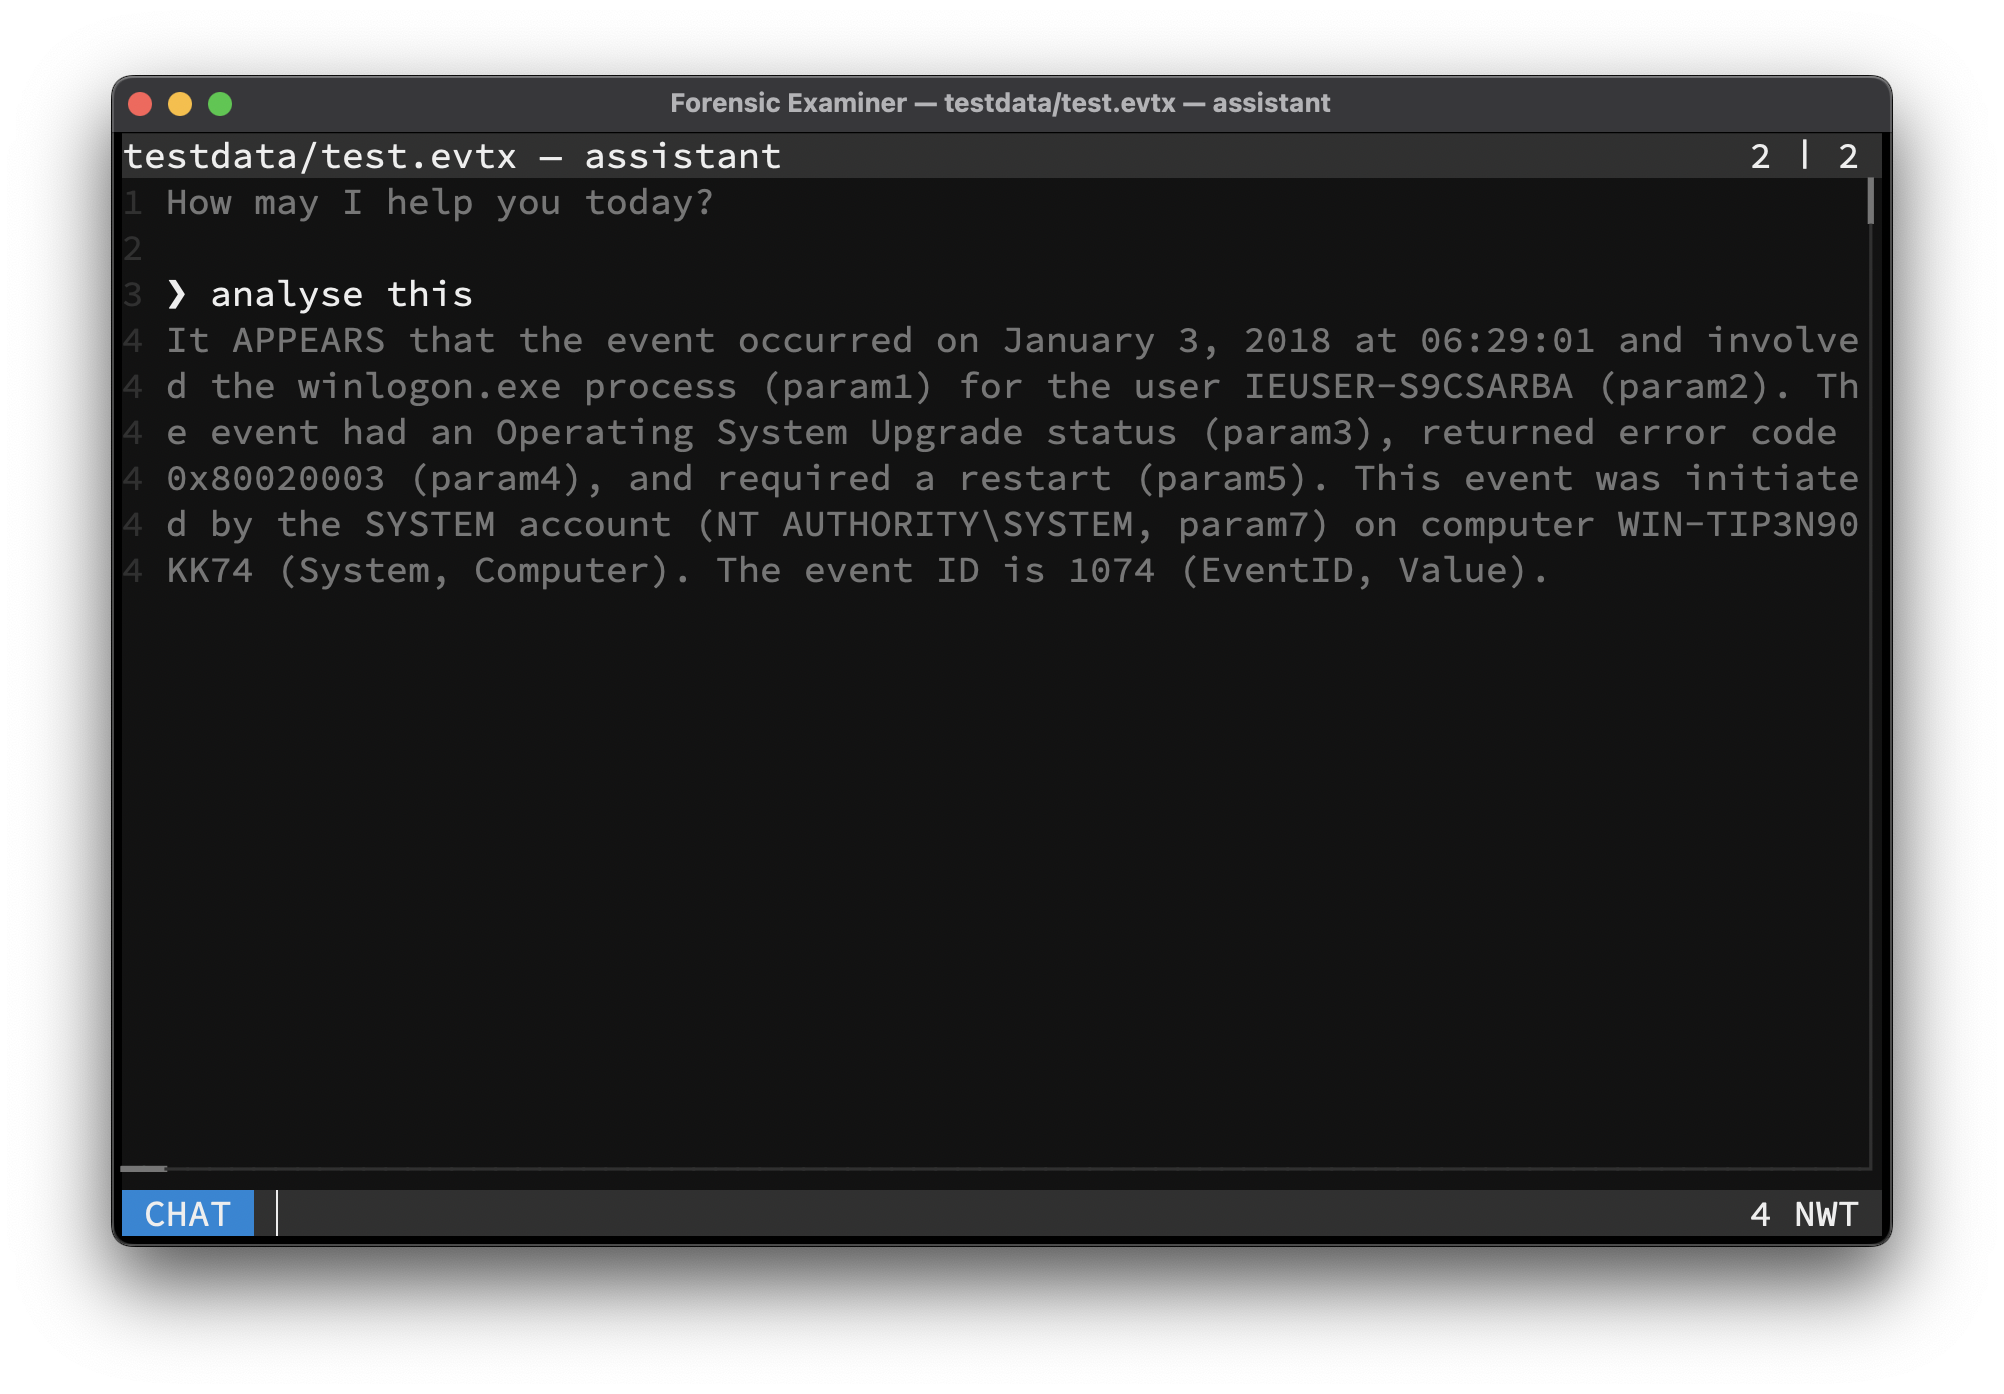
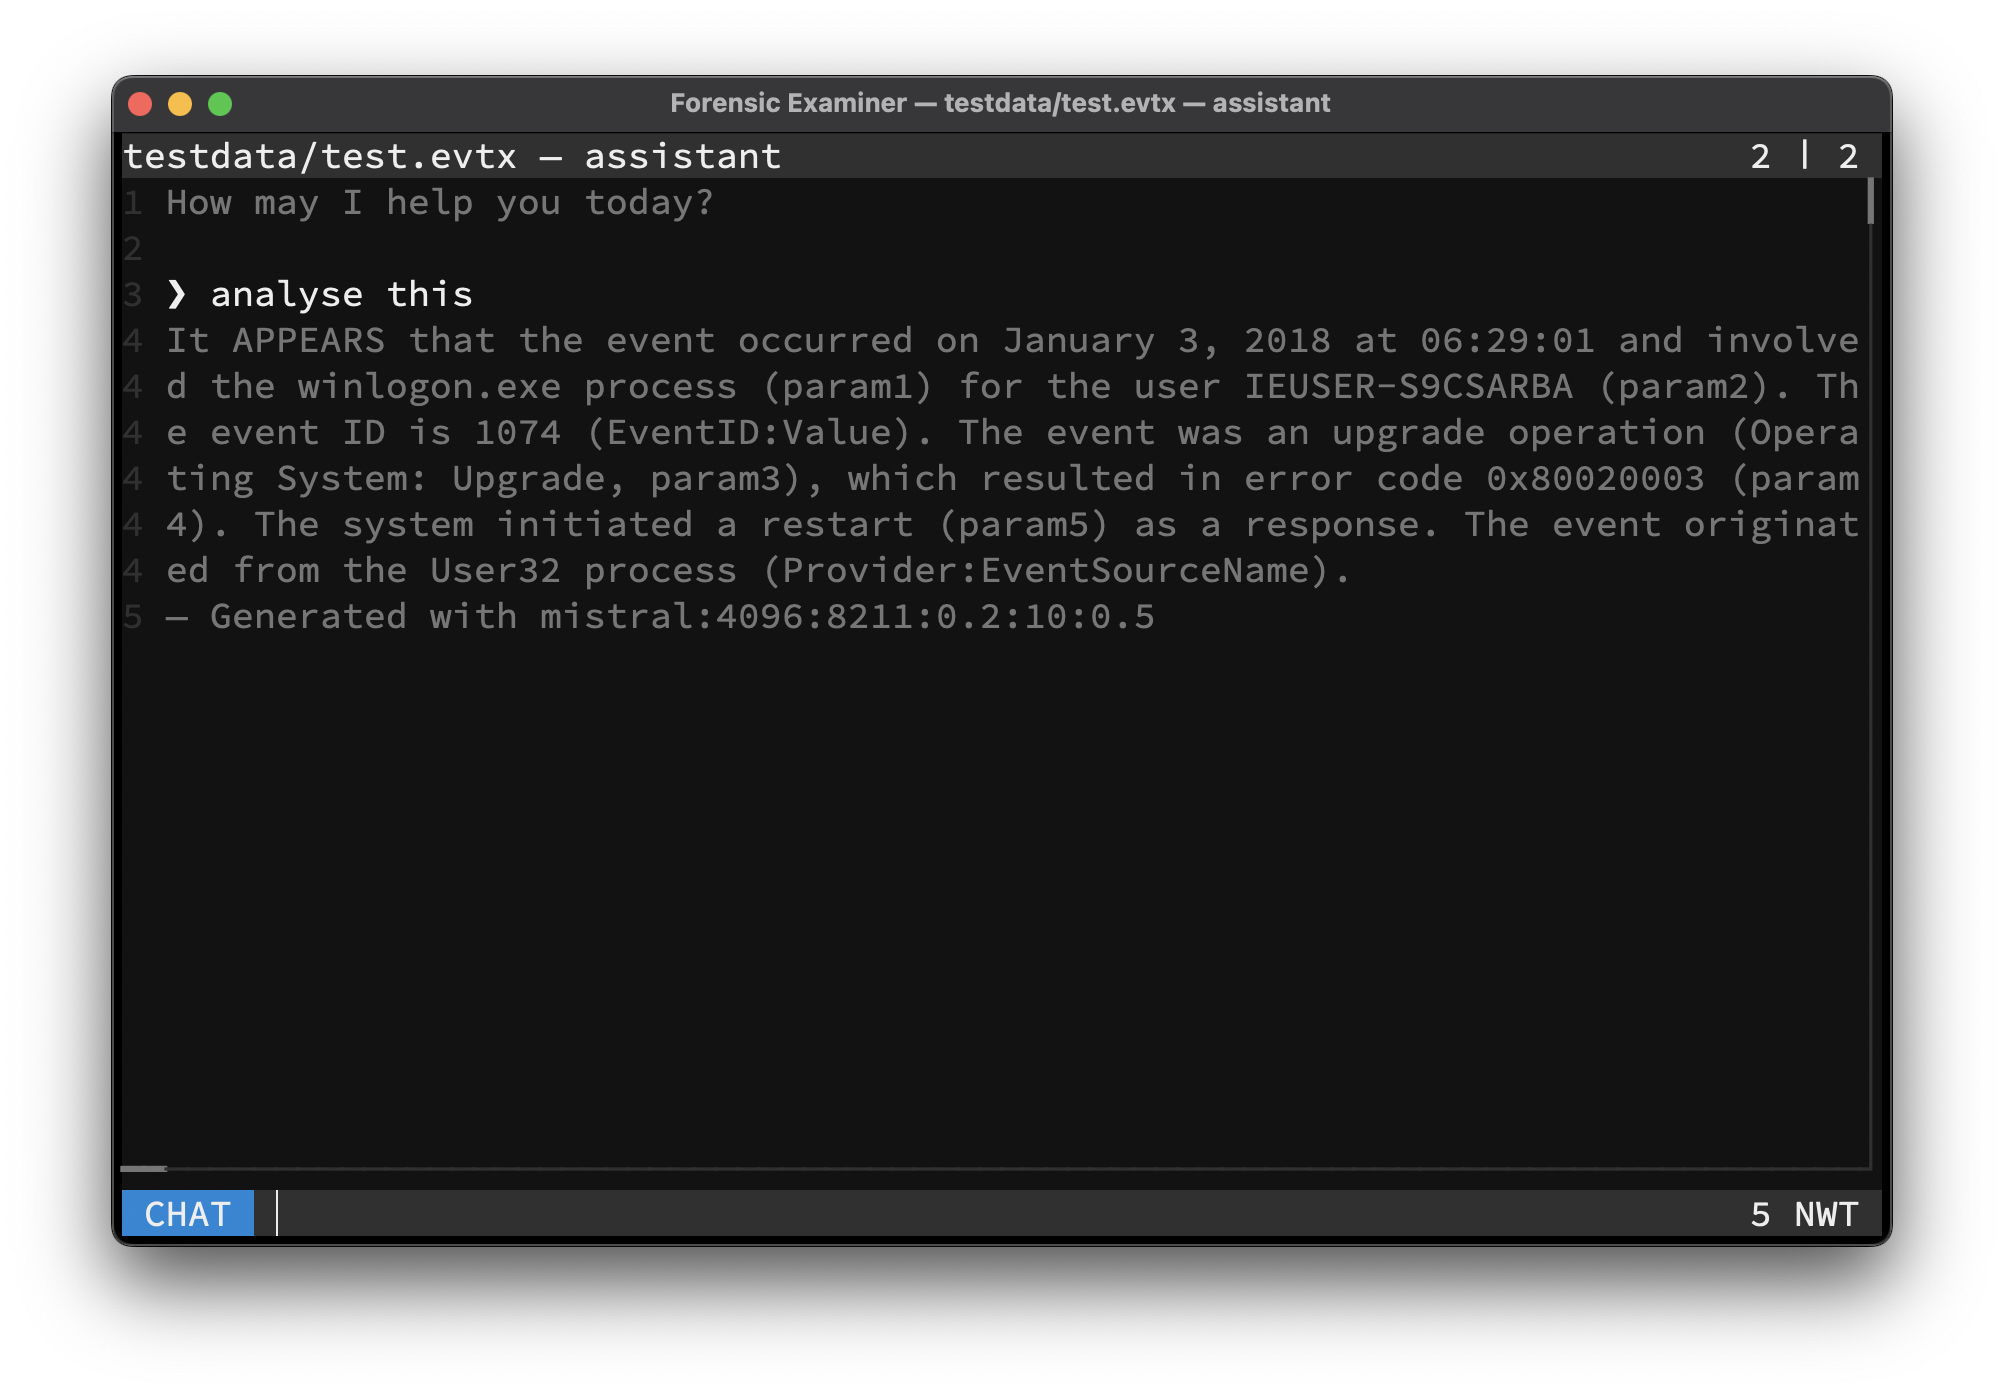
fixed several bugs

Changed region(s): [[0.0928, 0.3085, 0.9281, 0.4627]]

diff --git a/internal/cmd/fox.go b/internal/cmd/fox.go
@@ -231,7 +231,7 @@ var Fox = &cobra.Command{
 	Run: func(cmd *cobra.Command, args []string) {
 		flg := flags.Get()
 
-		if !flg.Bag && !flg.Print {
+		if !flg.Print && !flg.Bag {
 			ui.Start(args, types.None)
 		} else if len(args) == 0 {
 			fmt.Print(Usage)
@@ -339,14 +339,14 @@ func init() {
 func run(args []string) {
 	var ctx = opt.NewState(nil)
 	var flg = flags.Get()
-	var eb *bag.Bag
+	var b *bag.Bag
 
 	if len(flg.AI.Query) > 0 && !ai.Check() {
 		sys.Exit("Assistant is not available")
 	}
 
 	if flg.Bag {
-		eb = bag.New()
+		b = bag.New()
 	}
 
 	hs := heapset.New(args)
@@ -361,7 +361,7 @@ func run(args []string) {
 			}
 
 			if flg.Bag {
-				eb.Put(h)
+				b.Put(h)
 			} else if len(flg.AI.Query) > 0 {
 				c := chat.New(ctx, h)
 				defer c.Close()

diff --git a/internal/pkg/types/heap/heap.go b/internal/pkg/types/heap/heap.go
@@ -95,15 +95,17 @@ func (h *Heap) Ensure() *Heap {
 	if h.file == nil {
 		h.Reload()
 
-		filters := flags.Get().Filters
-
 		// apply global filters once
-		for _, filter := range filters.Patterns {
-			h.AddFilter(
-				filter,
-				filters.Before,
-				filters.After,
-			)
+		if h.Type != types.Chat {
+			filters := flags.Get().Filters
+
+			for _, filter := range filters.Patterns {
+				h.AddFilter(
+					filter,
+					filters.Before,
+					filters.After,
+				)
+			}
 		}
 	}
 

diff --git a/internal/opt/ai/chat/chat.go b/internal/opt/ai/chat/chat.go
@@ -172,7 +172,7 @@ func (c *Chat) source() string {
 		cfg.GetInt("ai.num_ctx"),
 		cfg.GetInt("ai.seed"),
 		cfg.GetFloat64("ai.temp"),
-		cfg.GetInt("ai.top_k"),
-		cfg.GetFloat64("ai.top_p"),
+		cfg.GetInt("ai.topk"),
+		cfg.GetFloat64("ai.topp"),
 	)
 }

diff --git a/internal/opt/ui/widgets/overlay.go b/internal/opt/ui/widgets/overlay.go
@@ -70,7 +70,3 @@ func (o *Overlay) Listen() {
 		o.state.ForceRender()
 	}
 }
-
-func (o *Overlay) Close() {
-	close(o.msgs)
-}

diff --git a/internal/opt/ui/ui.go b/internal/opt/ui/ui.go
@@ -117,7 +117,6 @@ func (ui *UI) Close() {
 		plugins.Close()
 	}
 
-	ui.overlay.Close()
 	ui.root.Fini()
 	ui.state.Save()
 

diff --git a/docs/features/ui/grep.md b/docs/features/ui/grep.md
@@ -5,8 +5,8 @@ All line-based files can be filtered with **Regular Expressions** by switching t
 
     Use <kbd>Ctrl</kbd> + <kbd>F</kbd> to switch to Grep mode while in the Terminal UI, or type any letter or number while in Less mode.
 
-## Dynamic Context Window
-This mode offers also a **Dynamic Context Window** for filtered lines. This context window can be changed on-the-fly for all open files alike:
+## Context window
+This mode offers also a dynamic **Context Window** for filtered lines. This context window can be changed on-the-fly for all open files alike:
 
 | Key                            | Action                  |
 |--------------------------------|-------------------------|
@@ -19,13 +19,13 @@ Available mode specific keys:
 | Key                                | Action                         |
 |------------------------------------|--------------------------------|
 | <kbd>Esc</kbd>                     | Switch to [Less](less.md) mode |
-| <kbd>Right</kbd>                   | Complete suggestion            |
 | <kbd>Enter</kbd>                   | Append filter                  |
 | <kbd>Backspace</kbd>               | Remove filter                  |
 | <kbd>Up</kbd>                      | Prev value in history          |
 | <kbd>Down</kbd>                    | Next value in history          |
 | <kbd>Left</kbd>                    | Move cursor left               |
 | <kbd>Right</kbd>                   | Move cursor right              |
+| <kbd>Right</kbd> at end            | Complete suggestion            |
 | <kbd>Ctrl</kbd> + <kbd>Left</kbd>  | Move cursor to start           |
 | <kbd>Ctrl</kbd> + <kbd>Right</kbd> | Move cursor to end             |
 | <kbd>Ctrl</kbd> + <kbd>V</kbd>     | Paste from clipboard           |

diff --git a/docs/features/ai/assistant.md b/docs/features/ai/assistant.md
@@ -33,4 +33,5 @@ $ fox testdata/test.evtx -pe="winlogon" -q="analyse this"
 It APPEARS that the event occurred on January 3, 2018 at 06:29:01 and involved the winlogon.exe process (param1) for the user IEUSER-S9CSARBA (param2).
 The event ID is 1074 (EventID:Value). The event was an upgrade operation (Operating System: Upgrade, param3), which resulted in error code 0x80020003 (param4).
 The system initiated a restart (param5) as a response. The event originated from the User32 process (Provider:EventSourceName).
+— Generated with mistral:4096:8211:0.2:10:0.5
 ```
